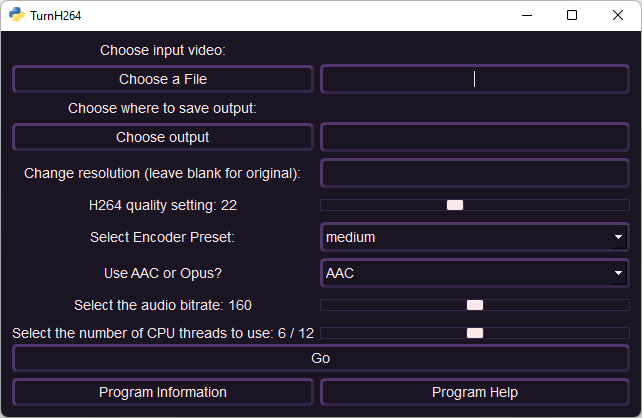
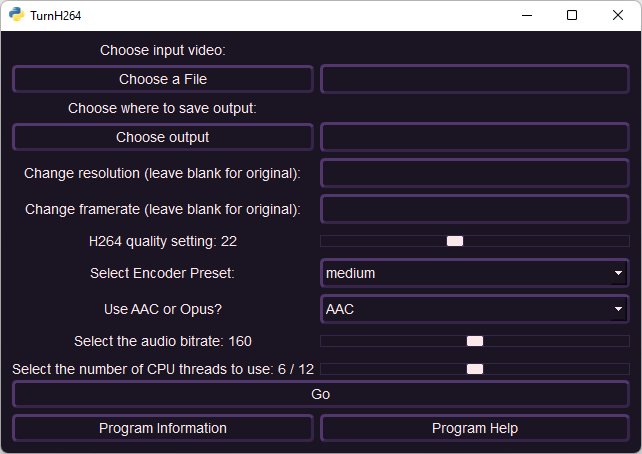
Added FPS control and arguments
Added arguments --help and --no_style, also added FPS control

Changed region(s): [[0.0, 0.0, 1.0, 0.9952]]

diff --git a/TurnH264.py b/TurnH264.py
@@ -1,4 +1,5 @@
 # coding: utf-8
+import argparse
 import os
 import signal
 import subprocess
@@ -10,6 +11,10 @@ from ctypes import alignment
 from PySide6 import QtCore, QtGui, QtWidgets
 
 import download_script
+
+arg_parser = argparse.ArgumentParser()
+arg_parser.add_argument('--no_style', required=False, default=False, help="Disables the QStyleSheet, might imporve readability.", action="store_true")
+args = arg_parser.parse_args()
 
 try: #to see if FFmpeg is available system-wide
     subprocess.Popen(['ffmpeg', '-version'],
@@ -98,6 +103,10 @@ class MainWindow(QtWidgets.QWidget): #Main class
                                                 alignment=QtCore.Qt.AlignCenter)
         self.resolution = QtWidgets.QLineEdit(self,
                                               alignment=QtCore.Qt.AlignCenter)
+        self.fps_text = QtWidgets.QLabel("Change framerate (leave blank for original):",
+                                         alignment=QtCore.Qt.AlignCenter)
+        self.fps = QtWidgets.QLineEdit(self,
+                                       alignment=QtCore.Qt.AlignCenter)
         self.audio_codec = QtWidgets.QComboBox(self)
         self.audio_codec.addItems(["AAC", "Opus"])
         self.encoder_preset = QtWidgets.QComboBox(self)
@@ -113,24 +122,26 @@ class MainWindow(QtWidgets.QWidget): #Main class
         self.layout.addWidget(self.output_file, 3, 1, 1, 1)
         self.layout.addWidget(self.choose_output_button, 3, 0, 1, 1)
         self.layout.addWidget(self.resolution_text, 4, 0, 1, 1)
-        self.layout.addWidget(self.resolution, 4, 1, 1, 1)
-        self.layout.addWidget(self.video_quality_text, 5, 0, 1, 1)
-        self.layout.addWidget(self.video_quality, 5, 1, 1, 1)
-        self.layout.addWidget(self.encoder_preset_text, 6, 0, 1, 1)
-        self.layout.addWidget(self.encoder_preset, 6, 1, 1, 1)
-        self.layout.addWidget(self.audio_codec_text, 7, 0, 1, 1)
-        self.layout.addWidget(self.audio_codec, 7, 1, 1, 1)
-        self.layout.addWidget(self.audio_bitrate_dialog, 8, 0, 1, 1)
-        self.layout.addWidget(self.audio_bitrate, 8, 1, 1, 1)
-        self.layout.addWidget(self.thread_dialog, 9, 0, 1, 1)
-        self.layout.addWidget(self.threads, 9, 1, 1, 1)
-        self.layout.addWidget(self.go_button, 10, 0, 1, 2)
-        self.layout.addWidget(self.cancel_button, 10, 0, 1, 1)
-        self.layout.addWidget(self.progress_bar_text, 10, 1, 1, 1)
-        self.layout.addWidget(self.overwrite_existing_button, 10, 0, 1, 1)
-        self.layout.addWidget(self.dont_overwrite_button, 10, 1, 1, 1)
-        self.layout.addWidget(self.about_button, 11, 0, 1, 1,)
-        self.layout.addWidget(self.help_button, 11, 1, 1, 1)
+        self.layout.addWidget(self.resolution, 4, 1, 1, 1)        
+        self.layout.addWidget(self.fps_text, 5, 0, 1, 1)
+        self.layout.addWidget(self.fps, 5, 1, 1, 1)
+        self.layout.addWidget(self.video_quality_text, 6, 0, 1, 1)
+        self.layout.addWidget(self.video_quality, 6, 1, 1, 1)
+        self.layout.addWidget(self.encoder_preset_text, 7, 0, 1, 1)
+        self.layout.addWidget(self.encoder_preset, 7, 1, 1, 1)
+        self.layout.addWidget(self.audio_codec_text, 8, 0, 1, 1)
+        self.layout.addWidget(self.audio_codec, 8, 1, 1, 1)
+        self.layout.addWidget(self.audio_bitrate_dialog, 9, 0, 1, 1)
+        self.layout.addWidget(self.audio_bitrate, 9, 1, 1, 1)
+        self.layout.addWidget(self.thread_dialog, 10, 0, 1, 1)
+        self.layout.addWidget(self.threads, 10, 1, 1, 1)
+        self.layout.addWidget(self.go_button, 11, 0, 1, 2)
+        self.layout.addWidget(self.cancel_button, 11, 0, 1, 1)
+        self.layout.addWidget(self.progress_bar_text, 11, 1, 1, 1)
+        self.layout.addWidget(self.overwrite_existing_button, 11, 0, 1, 1)
+        self.layout.addWidget(self.dont_overwrite_button, 11, 1, 1, 1)
+        self.layout.addWidget(self.about_button, 12, 0, 1, 1,)
+        self.layout.addWidget(self.help_button, 12, 1, 1, 1)
         self.overwrite_existing_button.hide()
         self.dont_overwrite_button.hide()
         self.cancel_button.hide()
@@ -306,10 +317,19 @@ class MainWindow(QtWidgets.QWidget): #Main class
         if self.resolution.text() == "":
             ffmpeg_res = "scale=" + subprocess.check_output([
                 'ffprobe', '-v', 'error', '-select_streams', 'v:0',
-                '-show_entries', 'stream=width,height', '-of' 'csv=s=x:p=0', str(ffmpeg_input_file)
+                '-show_entries', 'stream=width,height', '-of', 'csv=s=x:p=0', str(ffmpeg_input_file)
             ])
         else: #If there is text contained, use the user's given resolution
             ffmpeg_res = "scale=" + self.resolution.text()
+            
+        #Get original framerate if not specified
+        if self.fps.text() == "":
+            ffmpeg_fps = subprocess.check_output([
+                'ffprobe', '-v', 'error', '-select_streams', 'v',
+                '-of', 'default=noprint_wrappers=1:nokey=1', '-show_entries', 'stream=r_frame_rate', str(ffmpeg_input_file)
+            ])
+        else: #If there is text contained, use the user's given framerate
+            ffmpeg_fps = self.fps.text()
             
         ffmpeg_output_file = self.output_file.text()
         ffmpeg_crf = self.video_quality.value()
@@ -332,6 +352,7 @@ class MainWindow(QtWidgets.QWidget): #Main class
             '-c:a', str(ffmpeg_audio_codec),
             '-b:a', str(ffmpeg_audio_bitrate),
             '-vf', str(ffmpeg_res),
+            '-r', str(ffmpeg_fps),
             '-preset', str(ffmpeg_encoder_preset),
             '-vbr', 'off',
             '-threads', str(ffmpeg_threading) if str(ffmpeg_threading) else '4',
@@ -414,8 +435,9 @@ if __name__ == "__main__": #Launch the main-window on run
     main_app_window.show()
 
     #load the stylesheet
-    with open('style.qss', 'r') as style:
-        _style = style.read()
-        app.setStyleSheet(_style)
+    if not args.no_style:
+        with open('style.qss', 'r') as style:
+            _style = style.read()
+            app.setStyleSheet(_style)
 
     sys.exit(app.exec())
